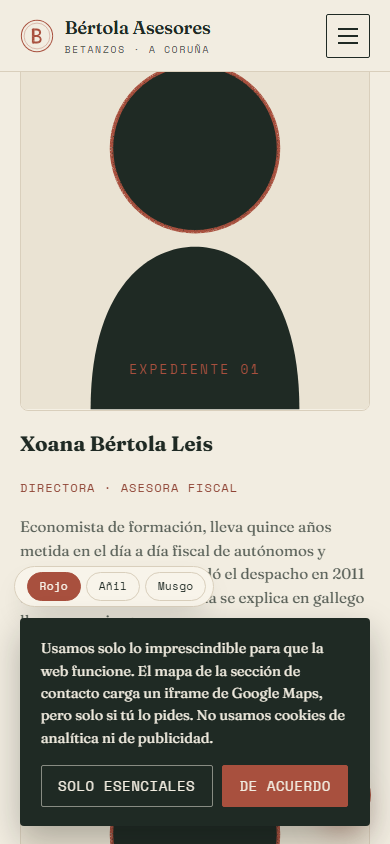
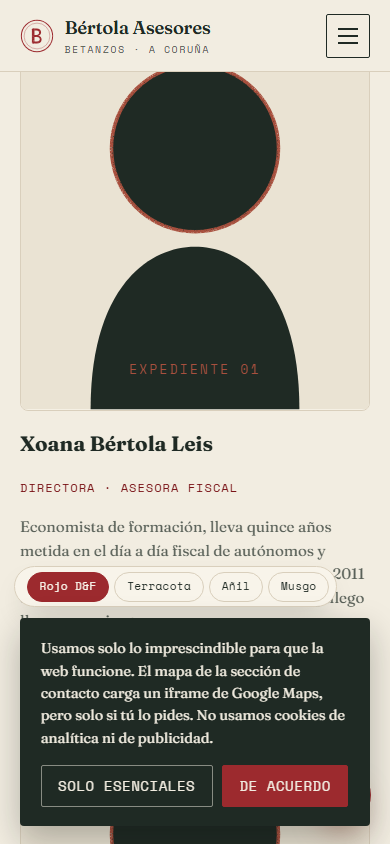
Paleta por defecto: rojo real de Dourado & Fernández en vez del terracota nativo
Las 7 plantillas de asesoría/gestoría se envían por email a Dourado &
Fernández, cliente real, para que comparen ESTRUCTURA, no color: como ya
tienen marca propia (su rojo ladrillo #9C2A2E/#7A1418/#3E0B0D), ese rojo
pasa a ser el valor por defecto del :root (sin clase) en vez del terracota
nativo de "Sello" (#A8503E), que se convierte en una 4ª opción del mando
de paleta.

Para evitar que el cliente confunda "su rojo" con "el rojo nativo de la
plantilla" (los dos son rojos, solo que distintos), se renombra el botón
por defecto a "Rojo D&F" y el del terracota nativo, antes "Rojo", pasa a
llamarse "Terracota" con clase explícita `paleta-original`. Añil y Musgo
sin cambios.

Actualizados css/style.css (:root + nueva clase paleta-original),
index.html (script bloqueante del <head> y 4º botón del mando),
js/main.js (initPaleta con el 4º estado) y README.md ("El control de
paleta"). scripts/verify.js comprueba ahora el hex exacto por defecto y
el de "Terracota", no solo que el botón "sea rojo" — vuelto a ejecutar
con Playwright: 0 errores de consola, sin solape con el aviso de cookies
en los 4 estados, persistencia y sin salto de color al recargar en los 4.

Changed region(s): [[0.0615, 0.6777, 0.8615, 0.7393], [0.5538, 0.8934, 0.8923, 0.955], [0.0615, 0.0308, 0.1231, 0.0616]]

diff --git a/scripts/verify.js b/scripts/verify.js
@@ -195,12 +195,25 @@ function attachLoggers(page, bucket, etiqueta) {
     informe.comprobaciones['paleta-solapa-cookies'] = solapaConCookies;
     await page.screenshot({ path: path.join(OUT, 'escritorio-07-paleta-con-cookies.png') });
 
+    // por defecto (sin localStorage, sin clase) el :root ya es el rojo real
+    // de Dourado & Fernández — comprobar el hex exacto, no solo "es rojo",
+    // porque el rojo nativo de "Sello" también lo era.
+    const colorRojoPorDefecto = await page.evaluate(() => getComputedStyle(document.documentElement).getPropertyValue('--rojo').trim());
+    informe.comprobaciones['paleta-defecto-es-rojo-df'] = { colorRojoPorDefecto, esperado: '#9C2A2E', ok: colorRojoPorDefecto.toUpperCase() === '#9C2A2E' };
+
     const colorRojo = await page.evaluate(() => getComputedStyle(document.querySelector('.btn-rojo')).backgroundColor);
+    await page.click('#paleta-original');
+    await page.waitForTimeout(200);
+    const colorOriginalHex = await page.evaluate(() => getComputedStyle(document.documentElement).getPropertyValue('--rojo').trim());
+    const colorOriginal = await page.evaluate(() => getComputedStyle(document.querySelector('.btn-rojo')).backgroundColor);
+    informe.comprobaciones['paleta-original-es-terracota'] = { colorOriginalHex, esperado: '#A8503E', ok: colorOriginalHex.toUpperCase() === '#A8503E' };
+    await page.screenshot({ path: path.join(OUT, 'escritorio-07-paleta-original.png') });
+
     await page.click('#paleta-anil');
     await page.waitForTimeout(200);
     const colorAnil = await page.evaluate(() => getComputedStyle(document.querySelector('.btn-rojo')).backgroundColor);
     const guardadoPaleta = await page.evaluate(() => localStorage.getItem('sello-paleta'));
-    informe.comprobaciones['paleta-cambia-color'] = { colorRojo, colorAnil, cambia: colorRojo !== colorAnil, guardadoPaleta };
+    informe.comprobaciones['paleta-cambia-color'] = { colorRojo, colorOriginal, colorAnil, cambia: colorRojo !== colorAnil && colorRojo !== colorOriginal && colorOriginal !== colorAnil, guardadoPaleta };
     await page.screenshot({ path: path.join(OUT, 'escritorio-07-paleta-anil.png') });
 
     // recarga: la paleta guardada debe aplicarse antes del primer paint, sin salto
@@ -208,7 +221,11 @@ function attachLoggers(page, bucket, etiqueta) {
     const claseInmediata = await page.evaluate(() => document.documentElement.classList.contains('paleta-anil'));
     informe.comprobaciones['paleta-sin-flash-al-recargar'] = claseInmediata;
     await page.waitForLoadState('networkidle');
-    await page.click('#paleta-rojo'); // deja el sitio en el color real de la marca
+    await page.click('#paleta-musgo');
+    await page.waitForTimeout(200);
+    const colorMusgo = await page.evaluate(() => getComputedStyle(document.querySelector('.btn-rojo')).backgroundColor);
+    informe.comprobaciones['paleta-musgo-distinto'] = colorMusgo !== colorAnil;
+    await page.click('#paleta-rojo'); // deja el sitio en el color real de D&F, el nuevo por defecto
     await ctx.close();
   }
 

diff --git a/js/main.js b/js/main.js
@@ -58,25 +58,29 @@
 
   /* ---------------------------------------------------------------------
      Control de paleta (demostración). NO ES PARTE DEL SITIO: es un mando
-     para enseñar la misma web en tres paletas de color delante del
-     cliente mientras decide. Al entregar la web ya como oficial se borra
-     esta función, el bloque .paleta del CSS, el <div id="paleta"> del
-     HTML y la bandera del <head>.
+     para enseñar la misma web en cuatro paletas de color delante del
+     cliente mientras decide. "rojo" (sin clase) es el rojo real de
+     Dourado & Fernández y es la paleta por defecto desde el 21-09-2026;
+     "original" es el rojo nativo de "Sello" (tampón/terracota). Al
+     entregar la web ya como oficial se borra esta función, el bloque
+     .paleta del CSS, el <div id="paleta"> del HTML y la bandera del
+     <head>.
      ------------------------------------------------------------------- */
   (function initPaleta() {
     var caja = document.getElementById('paleta');
     var botones = {
       rojo: document.getElementById('paleta-rojo'),
+      original: document.getElementById('paleta-original'),
       anil: document.getElementById('paleta-anil'),
       musgo: document.getElementById('paleta-musgo')
     };
-    if (!caja || !botones.rojo || !botones.anil || !botones.musgo) return;
+    if (!caja || !botones.rojo || !botones.original || !botones.anil || !botones.musgo) return;
     var CLAVE_PALETA = 'sello-paleta';
 
     caja.hidden = false; // sin JS no se enseña: no haría nada
 
     function pintar(nombre, guardar) {
-      html.classList.remove('paleta-anil', 'paleta-musgo');
+      html.classList.remove('paleta-original', 'paleta-anil', 'paleta-musgo');
       if (nombre !== 'rojo') html.classList.add('paleta-' + nombre);
       Object.keys(botones).forEach(function (k) {
         botones[k].setAttribute('aria-pressed', String(k === nombre));
@@ -84,9 +88,10 @@
       if (guardar) { try { localStorage.setItem(CLAVE_PALETA, nombre); } catch (e) {} }
     }
 
-    var actual = html.classList.contains('paleta-anil') ? 'anil' : html.classList.contains('paleta-musgo') ? 'musgo' : 'rojo';
+    var actual = html.classList.contains('paleta-original') ? 'original' : html.classList.contains('paleta-anil') ? 'anil' : html.classList.contains('paleta-musgo') ? 'musgo' : 'rojo';
     pintar(actual, false);
     botones.rojo.addEventListener('click', function () { pintar('rojo', true); });
+    botones.original.addEventListener('click', function () { pintar('original', true); });
     botones.anil.addEventListener('click', function () { pintar('anil', true); });
     botones.musgo.addEventListener('click', function () { pintar('musgo', true); });
   })();

diff --git a/css/style.css b/css/style.css
@@ -12,9 +12,12 @@
   --linea:#D9CFBC;
   --tinta:#1F2A24;
   --muted:#5A6159;       /* AA 5.47:1 sobre --papel, 5.81:1 sobre --crema */
-  --rojo:#A8503E;        /* marca: sellos, rellenos, filetes — 4.63:1 sobre papel */
-  --rojo-texto:#8F4435;  /* variante de texto: 5.90:1 sobre --papel */
-  --rojo-oscuro:#7C3A2B;
+  --rojo:#9C2A2E;        /* marca: sellos, rellenos, filetes. Rojo real de
+                             Dourado & Fernández (--oro de su sitio), puesto
+                             aquí como paleta por defecto — ver bloque de
+                             control de paleta más abajo */
+  --rojo-texto:#7A1418;  /* variante de texto: --oro-tinta de D&F, ~10:1 sobre blanco/crema */
+  --rojo-oscuro:#3E0B0D; /* --verde-oscuro de D&F: mismo uso de hover/profundidad que en su sitio */
   --foco:#1F2A24;
   --cookie-h:0px;        /* alto del aviso de cookies mientras está abierto; lo fija main.js */
 
@@ -43,8 +46,19 @@
 /* -------------------------- Control de paleta --------------------------
    BLOQUE DE DEMOSTRACIÓN: se borra entero al entregar la web ya como
    oficial (ver README, "El control de paleta"). Solo cambia el rojo de
-   marca — el papel y la tinta son los mismos en las tres, y el sello del
-   logo real no cambia de color con el mando. */
+   marca — el papel y la tinta son los mismos en las cuatro, y el sello del
+   logo real no cambia de color con el mando.
+   Desde el 21-09-2026 el :root de arriba lleva el rojo real de Dourado &
+   Fernández como paleta POR DEFECTO (sin clase), para la ronda de
+   comparación por email de las 7 plantillas de asesoría. El rojo nativo
+   de "Sello" (el de sellos/tampón, el original de esta plantilla) pasa a
+   ser una clase explícita más, "Terracota", para no confundirse con el
+   botón "Rojo D&F" en el mando. */
+html.paleta-original {
+  --rojo:#A8503E;        /* rojo nativo de "Sello": tampón/terracota — 4.63:1 sobre papel */
+  --rojo-texto:#8F4435;  /* 5.90:1 sobre --papel */
+  --rojo-oscuro:#7C3A2B;
+}
 html.paleta-anil {
   --rojo:#4368B4;        /* 4.64:1 sobre papel, 4.93:1 sobre crema */
   --rojo-texto:#385999;  /* 5.88:1 sobre papel */

diff --git a/index.html b/index.html
@@ -52,7 +52,7 @@
    quitarlo al entregar la web ya como oficial. */
 try {
   var p = localStorage.getItem('sello-paleta');
-  if (p === 'anil' || p === 'musgo') document.documentElement.classList.add('paleta-' + p);
+  if (p === 'original' || p === 'anil' || p === 'musgo') document.documentElement.classList.add('paleta-' + p);
 } catch (e) {}
 </script>
 </head>
@@ -542,14 +542,19 @@ try {
 
 <!-- ===================== CONTROL DE PALETA =====================
      Esto NO es parte del sitio: es un mando para enseñar la misma web con
-     tres paletas de color distintas delante del cliente, mientras decide.
-     Al entregar la web ya como oficial se borra este bloque, el bloque
-     .paleta del CSS, la función initPaleta() de main.js y la bandera del
-     <head>. Viene con [hidden]: sin JS no aparece, porque no haría nada. -->
+     cuatro paletas de color distintas delante del cliente, mientras decide.
+     Por defecto (sin clase) sale el rojo real de Dourado & Fernández, para
+     la ronda de comparación por email de las 7 plantillas de asesoría;
+     "Terracota" es el rojo nativo de "Sello" (el de tampón, el original de
+     esta plantilla). Al entregar la web ya como oficial se borra este
+     bloque, el bloque .paleta del CSS, la función initPaleta() de main.js
+     y la bandera del <head>. Viene con [hidden]: sin JS no aparece, porque
+     no haría nada. -->
 <div class="paleta" id="paleta" hidden>
   <p class="paleta-rotulo">Paleta</p>
   <div class="paleta-botones" role="group" aria-label="Paleta de color de la maqueta">
-    <button type="button" id="paleta-rojo" aria-pressed="true">Rojo</button>
+    <button type="button" id="paleta-rojo" aria-pressed="true">Rojo D&amp;F</button>
+    <button type="button" id="paleta-original" aria-pressed="false">Terracota</button>
     <button type="button" id="paleta-anil" aria-pressed="false">Añil</button>
     <button type="button" id="paleta-musgo" aria-pressed="false">Musgo</button>
   </div>

diff --git a/README.md b/README.md
@@ -55,6 +55,12 @@ luminance) antes de escribir el CSS, no a ojo — ver el cálculo en el
 historial del repo. Ningún texto se apaga con `opacity`: el token
 `--muted` es un color propio, auditable.
 
+`--rojo`/`--rojo-texto`/`--rojo-oscuro` de la tabla son el rojo **nativo**
+del concepto «Sello» (tampón/terracota) — pero desde el 21-09-2026 no son
+los valores que salen por defecto en `:root`: ver "El control de paleta"
+más abajo, donde este rojo nativo vive como la opción "Terracota" y el
+rojo real de Dourado & Fernández ocupa el `:root` sin clase.
+
 ## Tipografía
 
 - **Fraunces** (600) — titulares, wordmark, texto de los sellos.
@@ -185,24 +191,43 @@ fijo, que sí da una X limpia.
 
 Desde el 21-09-2026, PLIEGO §5 («Control de paleta») exige un mando de
 demostración en toda la biblioteca: una píldora flotante, abajo a la
-izquierda, que deja enseñar la misma maqueta con tres colores de marca
+izquierda, que deja enseñar la misma maqueta con varios colores de marca
 distintos delante del cliente mientras decide, sin tocar CSS en directo.
 Nació porque un cliente real (Dourado & Fernández) rechazó el verde de su
-sitio en una reunión — aquí no hay cliente real, pero la plantilla lleva
-el mismo mando para que cualquier futuro cliente pueda probarlo.
+sitio en una reunión.
 
-Las tres paletas (solo cambia el rojo de marca; papel y tinta son
-idénticos en las tres):
+**Actualización del mismo día (21-09-2026):** las 7 plantillas de
+asesoría/gestoría se envían por email a Dourado & Fernández para que
+elijan qué ESTRUCTURA/CONCEPTO prefieren para un futuro sitio propio.
+Como ya tienen marca — un rojo ladrillo concreto (`--oro:#9C2A2E` en su
+propio sitio) —, ese rojo pasa a ser la paleta **por defecto** (sin clase,
+en el `:root`) en las 7 plantillas: así el color deja de ser una variable
+en la comparación y solo se juzga la estructura. El rojo nativo de
+«Sello» (el de tampón/terracota, el original de este diseño) no
+desaparece: sigue disponible como una 4ª opción del mando, renombrada
+**«Terracota»** — y no «Rojo», para no confundirla con el nuevo botón
+por defecto («Rojo D&F»), que también es un rojo.
 
-- **Rojo** (por defecto): `--rojo:#A8503E` — el rojo de sello/tampón, el
-  real del diseño.
-- **Añil**: `--rojo:#4368B4` — azul índigo de tinta oficial.
-- **Musgo**: `--rojo:#41763D` — verde musgo, también plausible como tinta
-  de sello.
+Las cuatro paletas (solo cambia el rojo de marca; papel y tinta son
+idénticos en las cuatro):
 
-La paleta elegida se guarda en `localStorage` (`sello-paleta`) y se
-reaplica en la carga siguiente mediante un script bloqueante en el
-`<head>`, antes del primer pintado — así no hay salto de un color a otro.
+- **Rojo D&F** (por defecto, sin clase): `--rojo:#9C2A2E`,
+  `--rojo-texto:#7A1418`, `--rojo-oscuro:#3E0B0D` — el rojo real de
+  Dourado & Fernández (`--oro`/`--oro-tinta`/`--verde-oscuro` de su
+  propio sitio).
+- **Terracota** (`paleta-original`): `--rojo:#A8503E` — el rojo de
+  sello/tampón, el nativo de este diseño.
+- **Añil** (`paleta-anil`): `--rojo:#4368B4` — azul índigo de tinta
+  oficial.
+- **Musgo** (`paleta-musgo`): `--rojo:#41763D` — verde musgo, también
+  plausible como tinta de sello.
+
+La paleta elegida se guarda en `localStorage` (`sello-paleta`, valores
+`rojo` / `original` / `anil` / `musgo`) y se reaplica en la carga
+siguiente mediante un script bloqueante en el `<head>`, antes del primer
+pintado — así no hay salto de un color a otro. `rojo` es el estado sin
+clase (el `:root` de por sí ya es el rojo de D&F), las otras tres añaden
+`html.paleta-original` / `html.paleta-anil` / `html.paleta-musgo`.
 
 **Para quitarlo al entregar la web ya como oficial**, borrar estas 4
 piezas (todas están marcadas con el mismo comentario "CONTROL DE
@@ -212,10 +237,16 @@ DEMOSTRACIÓN" / "BLOQUE DE DEMOSTRACIÓN"):
    `localStorage` (justo antes de `</head>`).
 2. En `index.html`: el bloque `<div class="paleta" id="paleta" hidden>…`
    (justo después del botón flotante de WhatsApp).
-3. En `css/style.css`: el bloque `html.paleta-anil { … } html.paleta-musgo
-   { … }` (justo después de que cierra `:root`) y el bloque `.paleta { … }`
-   / `.paleta-botones { … }` (junto a `.wa-flotante`). También se puede
-   quitar `--cookie-h` de `:root` si nada más lo usa ya.
+3. En `css/style.css`: el bloque `html.paleta-original { … } html.paleta-anil
+   { … } html.paleta-musgo { … }` (justo después de que cierra `:root`) y
+   el bloque `.paleta { … }` / `.paleta-botones { … }` (junto a
+   `.wa-flotante`). También se puede quitar `--cookie-h` de `:root` si
+   nada más lo usa ya. **Importante:** si se quita este bloque, hay que
+   decidir aparte si el `:root` se queda con el rojo de Dourado & Fernández
+   o si se revierte a `--rojo:#A8503E` / `--rojo-texto:#8F4435` /
+   `--rojo-oscuro:#7C3A2B` (el nativo de «Sello», hoy solo alcanzable vía
+   `paleta-original`) — el mando deja de existir, pero el valor del
+   `:root` no vuelve solo al original.
 4. En `js/main.js`: la función `initPaleta()` completa, dentro de la
    sección 1 (justo después de `cookies()`).
 
